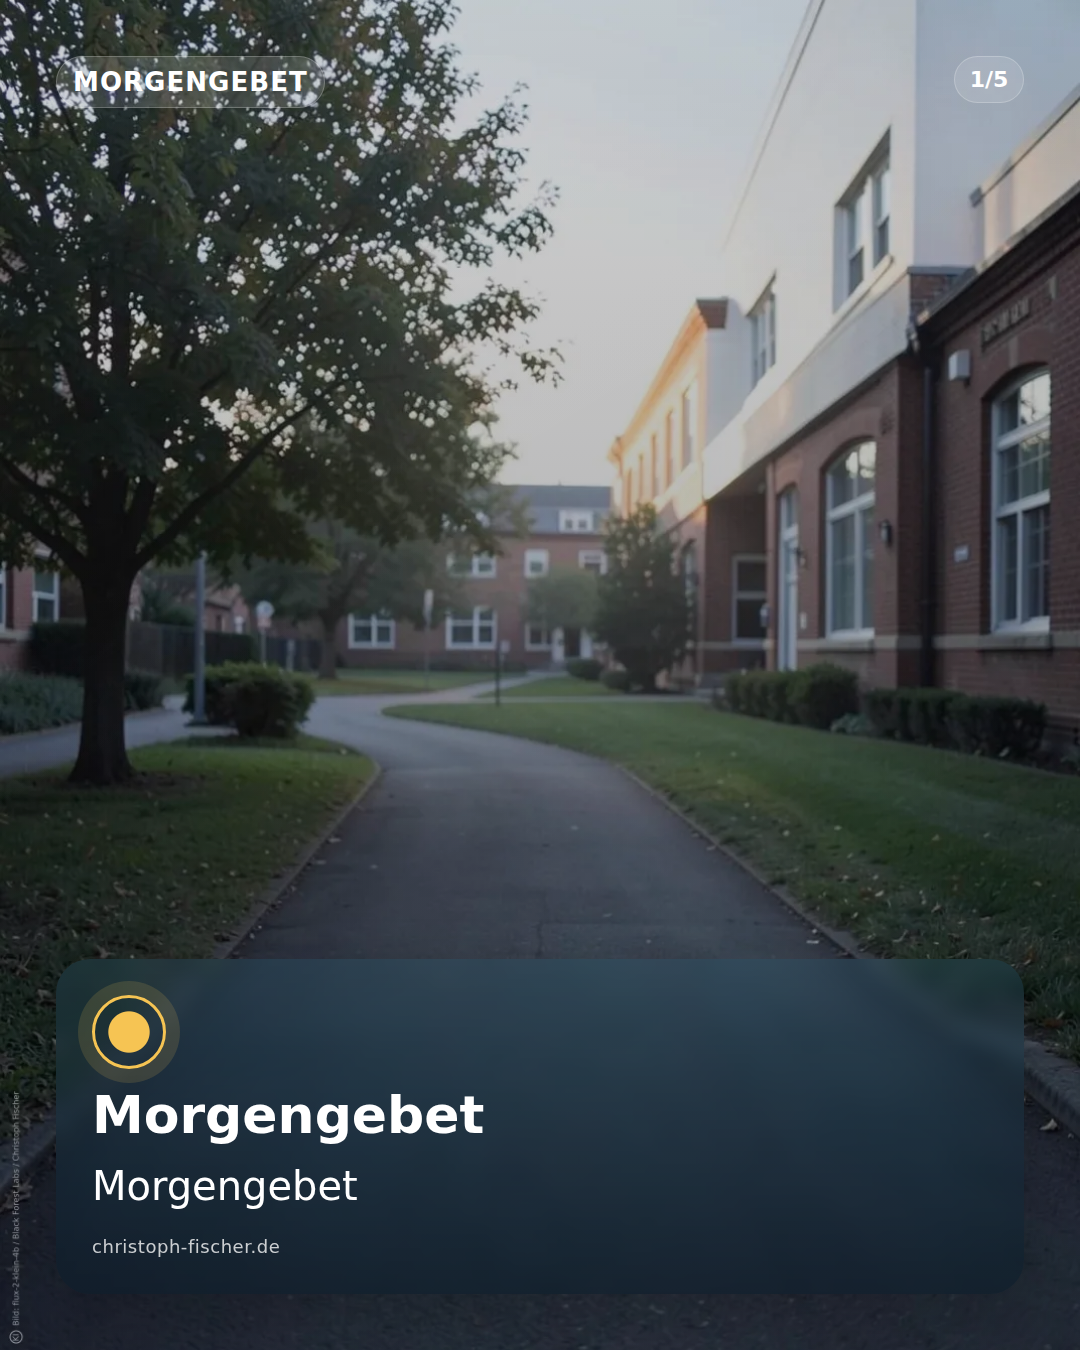
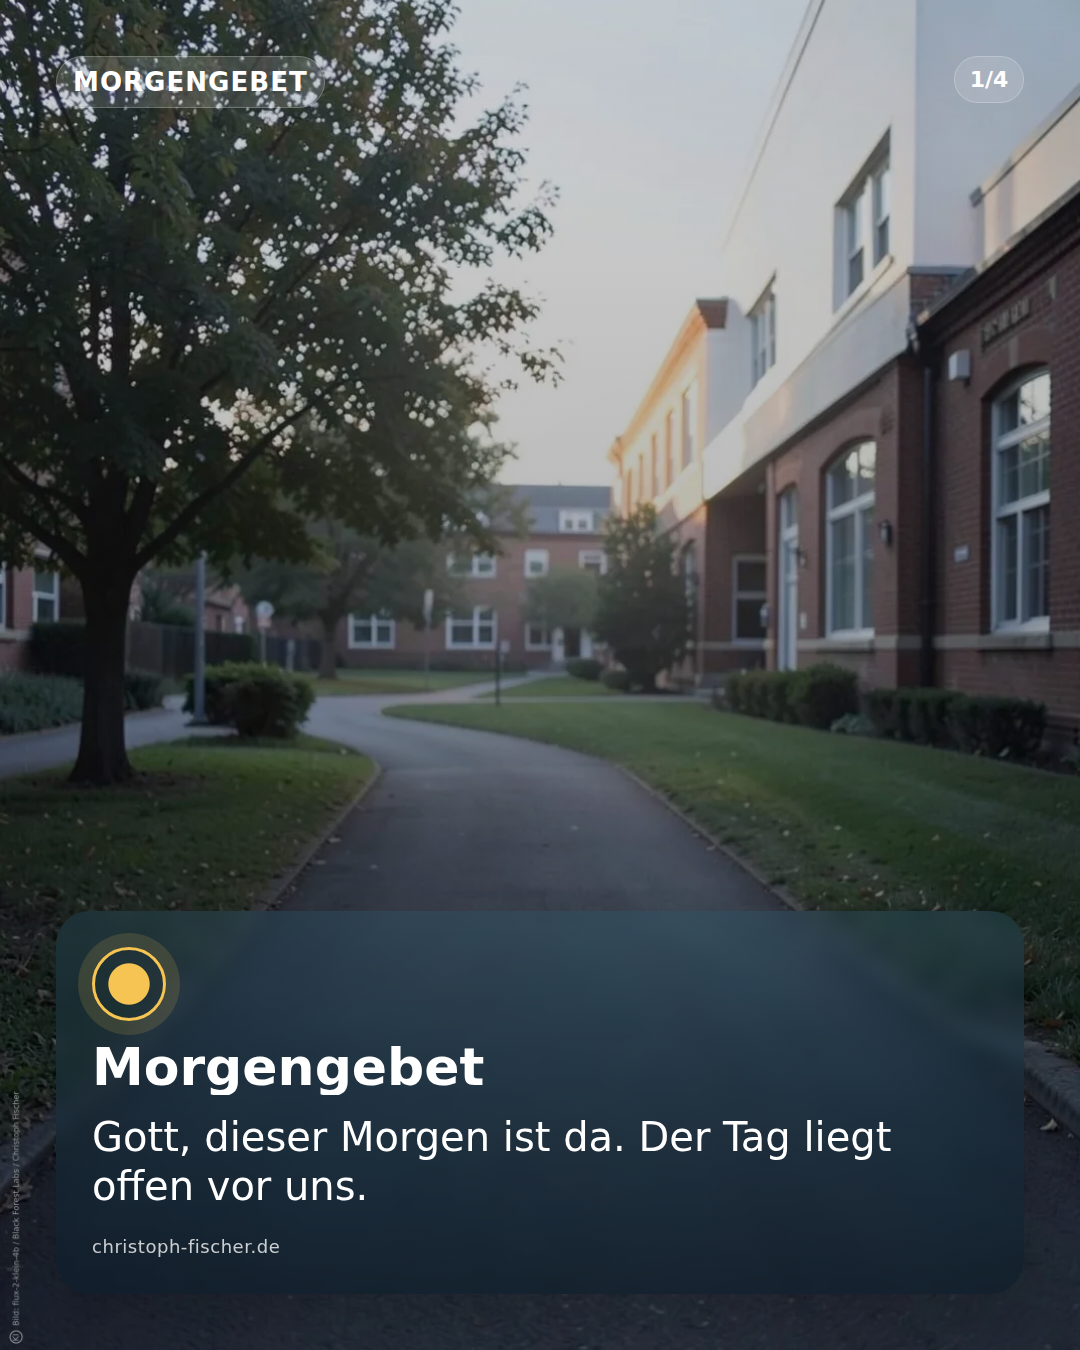
Update content: GET /files/2026-09-09/prayer-morning-2026-09-09/assets/background-9x16.webp

diff --git a/2026-09-09/prayer-morning-2026-09-09/render-instagram-feed-03.html b/2026-09-09/prayer-morning-2026-09-09/render-instagram-feed-03.html
@@ -396,11 +396,11 @@
       <section class="layout">
         <div class="panel-meta">
           <div class="eyebrow">Morgengebet</div>
-          <div class="pager">3/5</div>
+          <div class="pager">3/4</div>
         </div>
         <section class="panel prayer-panel">
   <div class="prayer-symbol prayer-symbol-morning" aria-hidden="true"></div>
-  <p class="body-text" data-overflow-id="primary-text">Wir beten für die Menschen im Nahen Osten, besonders im Libanon. Gewalt, Angst und Spannungen prägen den Alltag.</p>
+  <p class="body-text" data-overflow-id="primary-text">Wir bitten für alle, für die jetzt etwas neu beginnt: Schule, Studium, Ausbildung. Schenke Mut und Frieden.</p>
   <p class="sender-mark">christoph-fischer.de</p>
 </section>
 

diff --git a/2026-09-09/prayer-morning-2026-09-09/render-instagram-feed-02.html b/2026-09-09/prayer-morning-2026-09-09/render-instagram-feed-02.html
@@ -396,11 +396,11 @@
       <section class="layout">
         <div class="panel-meta">
           <div class="eyebrow">Morgengebet</div>
-          <div class="pager">2/5</div>
+          <div class="pager">2/4</div>
         </div>
         <section class="panel prayer-panel">
   <div class="prayer-symbol prayer-symbol-morning" aria-hidden="true"></div>
-  <p class="body-text" data-overflow-id="primary-text">Gott, dieser Morgen ist da. Der Tag liegt offen vor uns.</p>
+  <p class="body-text" data-overflow-id="primary-text">Wir beten für die Menschen im Nahen Osten, besonders im Libanon. Gewalt, Angst und Spannungen prägen den Alltag.</p>
   <p class="sender-mark">christoph-fischer.de</p>
 </section>
 
